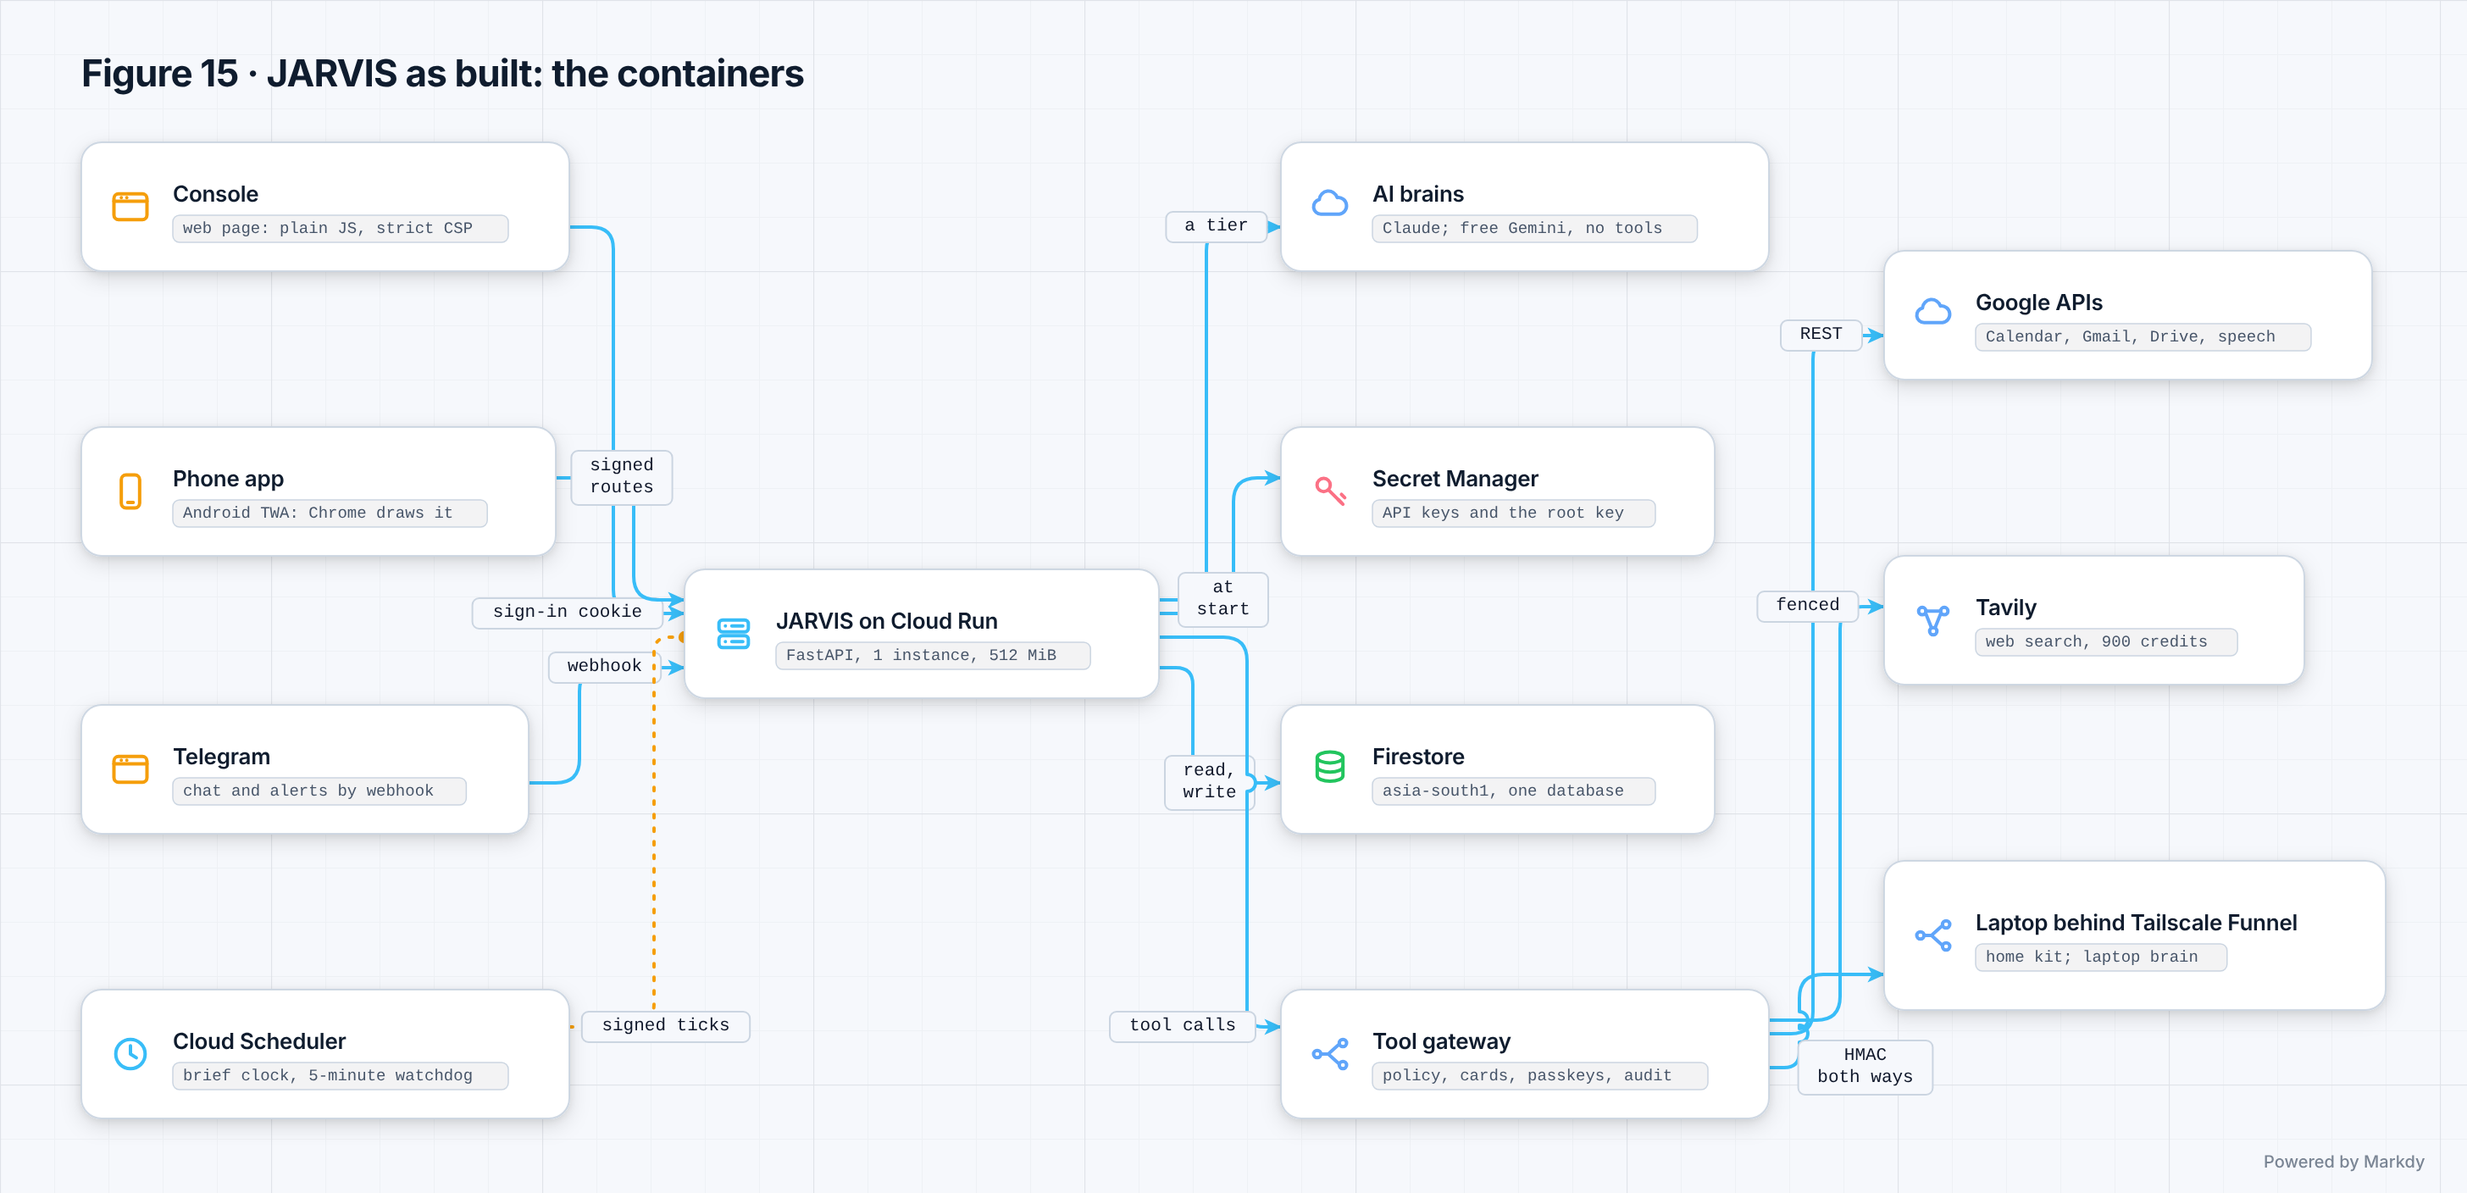
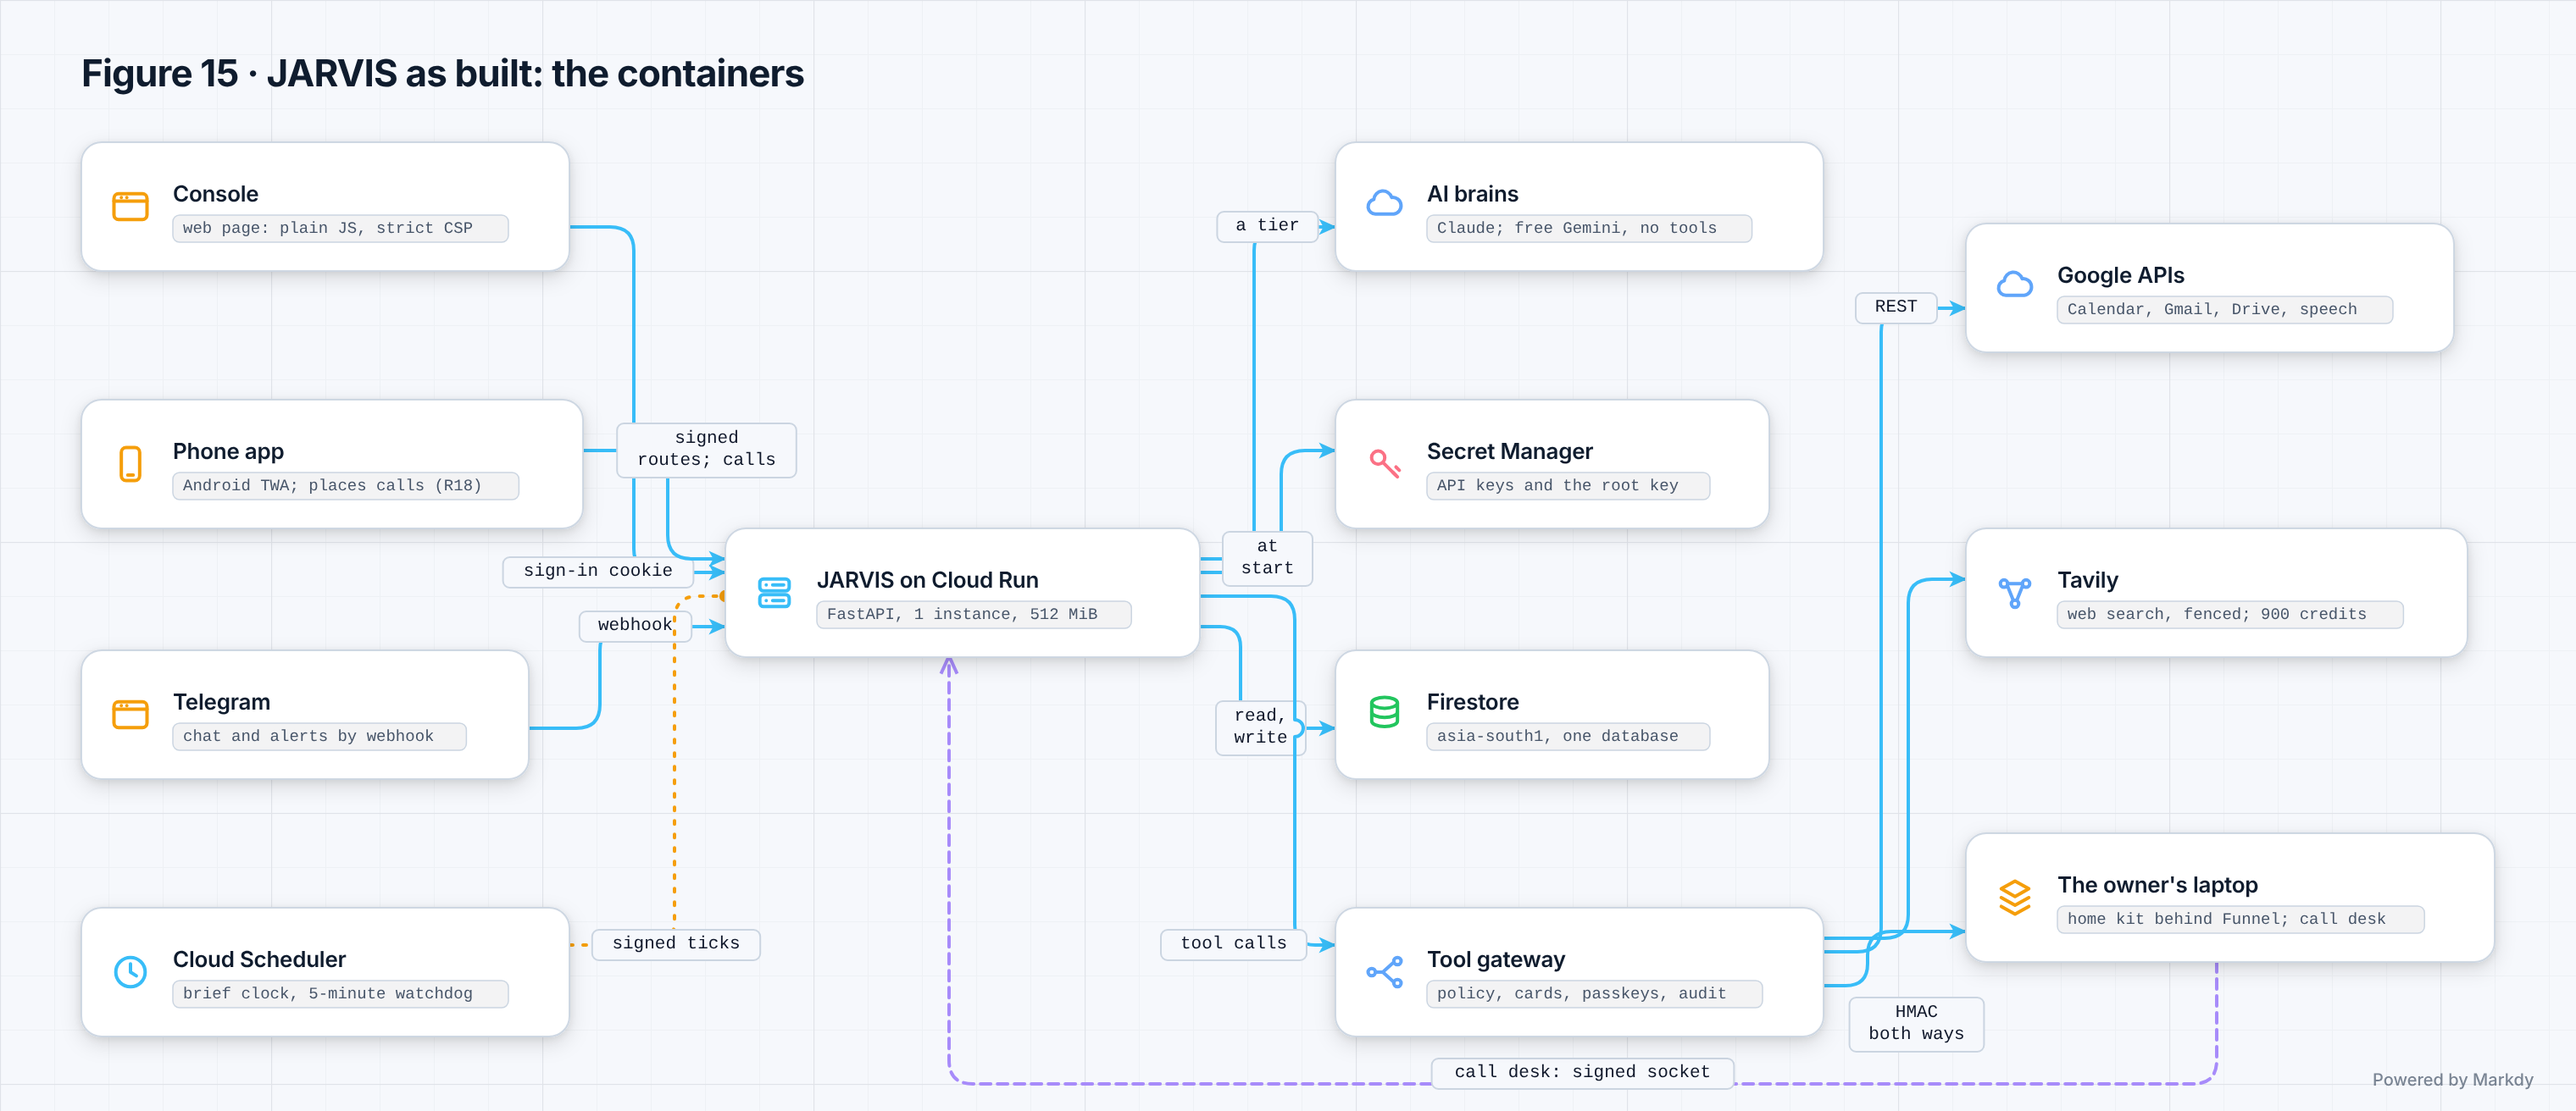
docs(add): Figures 15 and 16 redrawn for R18 - the call desk's signed socket, the phone's calls, the speech services
Lint --strict, verify --quality showcase and --check pass; the PNGs were looked at (no cut labels;
Figure 16's OIDC label, crossed before, now clear).

Claude-Session: https://claude.ai/code/session_01KbmAkthzyK1jEx5wBXVxqW
JARVIS-Version: v18.0.0
JARVIS-Mark: XXV

diff --git a/docs/architecture/design/02-context-and-deployment.md b/docs/architecture/design/02-context-and-deployment.md
@@ -23,7 +23,9 @@ has the details.
 
 *Figure 15. JARVIS as built: the containers.* Source:
 [`15-containers.markdy`](../diagrams/15-containers.markdy). The guide's Figure 1
-(`../diagrams/01-context.png`) draws the same context in the owner's words.
+(`../diagrams/01-context.png`) draws the same context in the owner's words. Redrawn for R18: the
+laptop box now holds the call desk too, whose signed socket comes in to Cloud Run (step 3), and
+the phone app places calls; the speech services a call uses are in Figure 16.
 
 | Actor or system | Role | How it reaches JARVIS, or JARVIS reaches it | Evidence |
 |---|---|---|---|
@@ -239,7 +241,8 @@ S0 laptop test of the real sound path has not been run yet (*unverified* on a re
 
 *Figure 16. Trust boundaries.* Source:
 [`16-trust-boundaries.markdy`](../diagrams/16-trust-boundaries.markdy). Each arrow is a crossing;
-its label is what the receiving side checks.
+its label is what the receiving side checks. Redrawn for R18 with the call desk's signed socket
+(B10) and the speech services that hear a call (B12).
 
 | # | Boundary | Crossing | Checked by | Data that crosses |
 |---|---|---|---|---|
@@ -262,4 +265,4 @@ its label is what the receiving side checks.
 |---|---|---|---|---|
 | v6.4.1 | 27 Nov 2026, 14:50 IST | R6.4 | First edition: system context, Cloud Run settings and what they imply, Firestore, Secret Manager, service accounts, the two Scheduler jobs, the console and phone app, the home kit, Telegram, the Google APIs, CI/CD, backups, environments, nine trust boundaries; Figures 15 and 16 | 🛠 Mark XXV |
 | v6.4.2 | 27 Nov 2026 | R6.4 | Verification (chapter 13): `SecretStr` fields 13 → 11, named; step 3's Maps and YouTube APIs added; `render.yaml`'s status and the date of the move to Cloud Run from GitHub's history, the reason marked unverified; the concurrency default marked unverified in plain words | 🛠 Mark XXV |
-| v6.5.0 | 27 Nov 2026, 19:30 IST | R18 | R18 "Calls from your laptop": the calls' actors in the context table; `--timeout 1800`; the image carries the call desk kit and NumPy; 139 collections; the three speech keys (not mounted by the deploy, how to add them unverified); the phone app's calls (version 18.0.0, the door's fifth route, signed commands, CI's two new controls); when calls are wired; new section 2.13, the call desk, VB-CABLE and Phone Link; trust boundaries B1 and B2 widened, B10–B12 added; the capacity pointer fixed to chapter 06, section 5 | 🛠 Mark XXV |
+| v6.5.0 | 27 Nov 2026, 19:30 IST | R18 | R18 "Calls from your laptop": the calls' actors in the context table; `--timeout 1800`; the image carries the call desk kit and NumPy; 139 collections; the three speech keys (not mounted by the deploy, how to add them unverified); the phone app's calls (version 18.0.0, the door's fifth route, signed commands, CI's two new controls); when calls are wired; new section 2.13, the call desk, VB-CABLE and Phone Link; trust boundaries B1 and B2 widened, B10–B12 added; Figures 15 and 16 redrawn for R18 (the call desk, the speech services); the capacity pointer fixed to chapter 06, section 5 | 🛠 Mark XXV |
